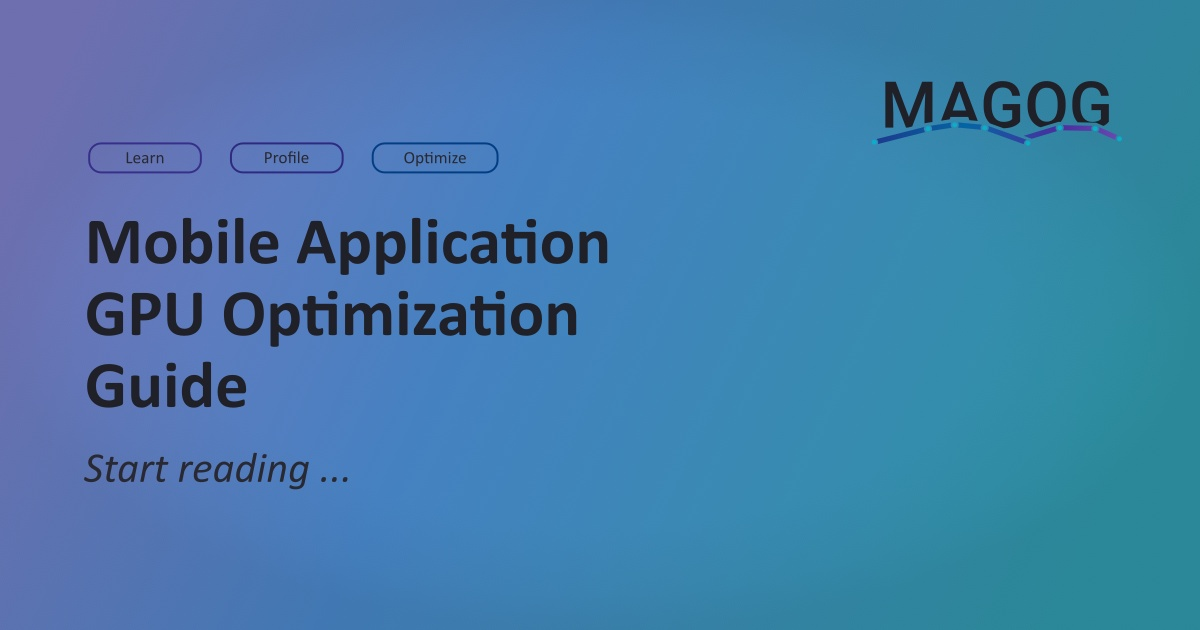
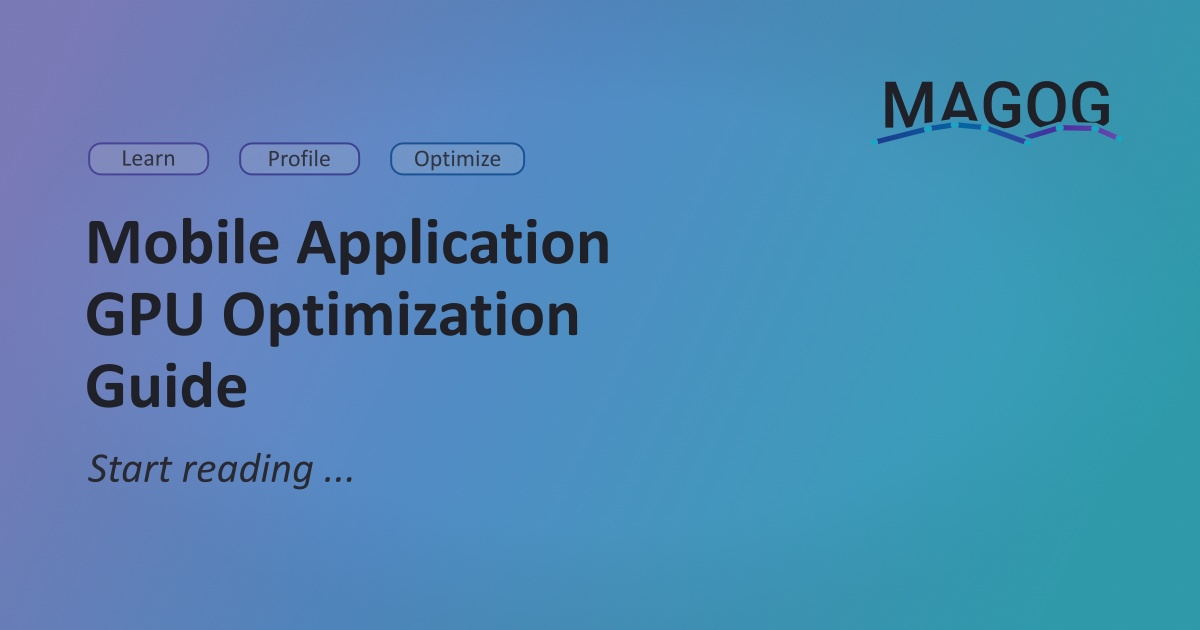
Improve shortcode handling:
- Updated image shortcodes to support the Hextra image zoom function.
- Added central reference shortcode for links.

Other fixes in this update:

- Further presentation tweaks to OpenGraph image.
- Fix to .gitattributes handling of LF line endings.

diff --git a/layouts/shortcodes/img_tsvg.html b/layouts/shortcodes/img_tsvg.html
@@ -1,5 +1,13 @@
+{{- $enableImageZoom := .Page.Site.Params.imageZoom.enable | default false -}}
+{{- if not (eq .Page.Params.imageZoom nil) -}}
+  {{- $enableImageZoom = .Page.Params.imageZoom -}}
+{{- end -}}
+{{- if $enableImageZoom -}}
+  {{- .Page.Store.Set "hasImageZoom" true -}}
+{{- end -}}
+
 <figure class="mgfig">
-  <img class="lt" srcset="{{ .Site.BaseURL }}images/{{ print (index .Params 0) }}" alt="{{ print (index .Params 3) }}"/>
-  <img class="dk" srcset="{{ .Site.BaseURL }}images/{{ print (index .Params 1) }}" alt="{{ print (index .Params 3) }}"/>
+  <img class="lt" srcset="{{ .Site.BaseURL }}images/{{ print (index .Params 0) }}" alt="{{ print (index .Params 3) }}"{{ if $enableImageZoom }} data-zoomable{{ end }}/>
+  <img class="dk" srcset="{{ .Site.BaseURL }}images/{{ print (index .Params 1) }}" alt="{{ print (index .Params 3) }}"{{ if $enableImageZoom }} data-zoomable{{ end }}/>
   <figcaption><b>Figure {{ print (index .Params 2) }}:</b> {{ print (index .Params 3) }}</figcaption>
 </figure>

diff --git a/layouts/shortcodes/img_rast.html b/layouts/shortcodes/img_rast.html
@@ -1,4 +1,12 @@
+{{- $enableImageZoom := .Page.Site.Params.imageZoom.enable | default false -}}
+{{- if not (eq .Page.Params.imageZoom nil) -}}
+  {{- $enableImageZoom = .Page.Params.imageZoom -}}
+{{- end -}}
+{{- if $enableImageZoom -}}
+  {{- .Page.Store.Set "hasImageZoom" true -}}
+{{- end -}}
+
 <figure class="mgfig mgrast">
-<img src="{{ .Site.BaseURL }}images/{{ print (index .Params 0) }}" alt="{{ print (index .Params 2) }}" />
+<img src="{{ .Site.BaseURL }}images/{{ print (index .Params 0) }}" alt="{{ print (index .Params 2) }}"{{ if $enableImageZoom }} data-zoomable{{ end }} />
 <figcaption><b>Figure {{ print (index .Params 1) }}:</b> {{ print (index .Params 2) }}</figcaption>
 </figure>

diff --git a/assets/css/custom.css b/assets/css/custom.css
@@ -94,3 +94,12 @@ main:not(.magog-main) {
     margin-right: auto;
 }
 
+/* Disable hover highlight on the home screen cards, as they are not links. */
+main.magog-main .hextra-feature-card:not([href]):hover {
+    border-color: var(--hx-color-gray-200);
+}
+
+html.dark main.magog-main .hextra-feature-card:not([href]):hover {
+    border-color: var(--hx-color-neutral-800);
+}
+

diff --git a/layouts/shortcodes/extref.html b/layouts/shortcodes/extref.html
@@ -1,0 +1,7 @@
+{{- $id := .Get "id" -}}
+{{- $text := .Get "text" -}}
+{{- with index site.Data.links $id -}}
+<a href="{{ .url }}">{{ $text | default .label }}</a>
+{{- else -}}
+{{- errorf "Unknown shared link %q at %s" $id $.Position -}}
+{{- end -}}

diff --git a/content/docs/02_mobile_systems/01_mobile_devices.md b/content/docs/02_mobile_systems/01_mobile_devices.md
@@ -10,7 +10,7 @@ Mobile devices are compact, battery-powered systems that rely on passive cooling
 
 ## Mobile device form factor
 
-<!-- TODO: This would benefit from mobile vs PC image and/ot comparison table -->
+<!-- TODO: This would benefit from mobile vs PC image and/or comparison table -->
 
 Mobile systems are built for energy efficiency, designed to give high performance without excessive battery drain or overheating. Despite this focus on efficiency, a high-end device can generate more heat than it can dissipate under a sustained heavy workload. Every watt of power needed to drive the electronics will be turned into heat that needs to be dissipated. An application can make heavy use of the CPU, GPU, or memory bandwidth, but cannot usually sustain heavy simultaneous use of all of them for long periods.
 
